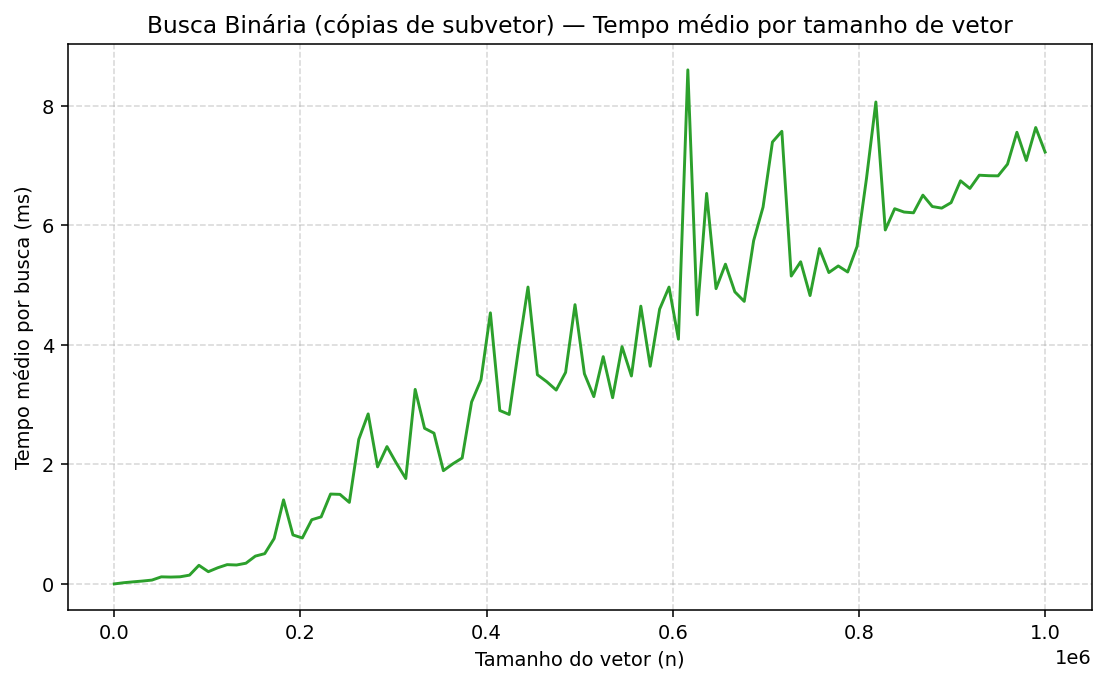
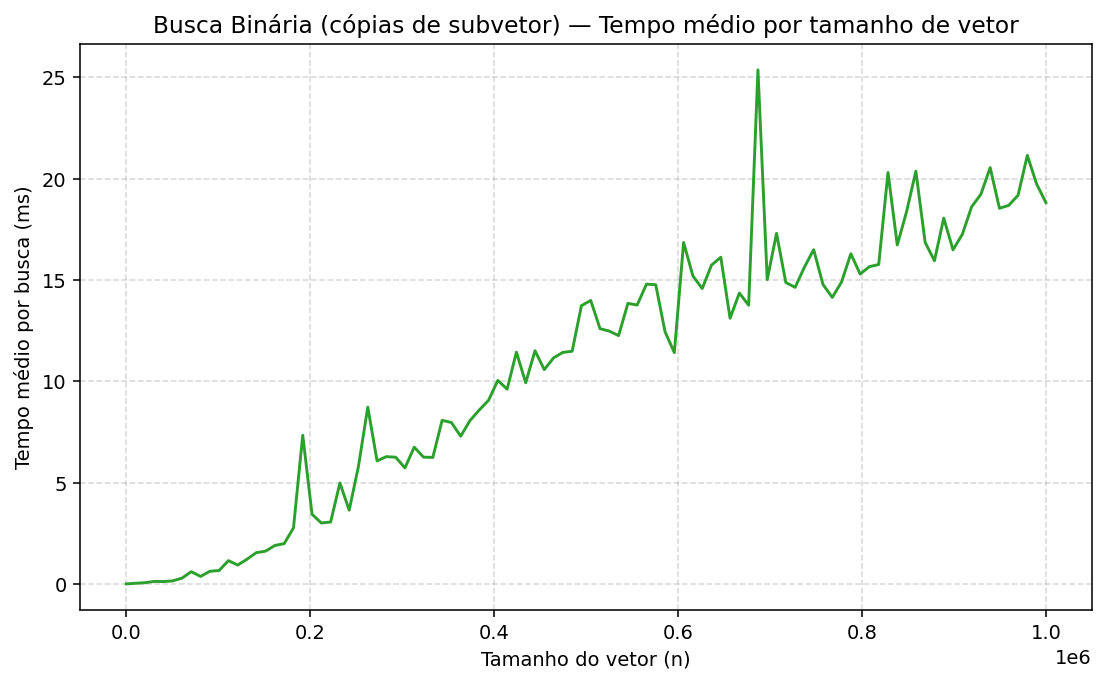
refacto: Adiciona aleatoriedade para o vetor de entrada

diff --git a/benchmark.py b/benchmark.py
@@ -21,7 +21,7 @@ START_N = 100               # tamanho inicial do vetor
 END_N = 1_000_000           # tamanho final do vetor
 TOTAL_SIZES = 100           # quantidade de tamanhos de vetores
 REPEATS_PER_SIZE = 10       # quantas buscas serão realizadas por tamanho
-SEED = 42                   # para reprodutibilidade (aleatorização)
+SEED = 42                  # para reprodutibilidade (aleatorização)
 
 # Do total de tamanhos, quantos quereremos
 EXECUTION_SIZES = TOTAL_SIZES
@@ -39,10 +39,10 @@ def main():
     mismatches = []
 
     for n in sizes:
-        A = list(range(n))  # vetor ordenado 0..n-1 (pré-condição da binária)
+        A = sorted([rng.randint(0, n * 2) for _ in range(n)])  # vetor ordenado aleátorio de 0 ate 2n
+        print(A[:5], " + ", A[-5:], "para -> ", n)
         # Sorteia alvos em um range mais largo para incluir casos de "não encontrado"
-        targets = [rng.randint(-n // 2, (3 * n) // 2) for _ in range(REPEATS_PER_SIZE)]
-
+        targets = [rng.randint(-n // 2, (3 * n)) for _ in range(REPEATS_PER_SIZE)] # -(n/2) até 3n
         # Linear
         t0 = time.perf_counter()
         lin_results = [linear_search(A, x) for x in targets]
@@ -89,8 +89,8 @@ def main():
     # Plotar gráfico
     plt.figure()
     plt.plot(n, linear, label="Linear")
-    plt.plot(n, binary_idx, label="Binária (índices)")
     plt.plot(n, binary_copy, label="Binária (cópias de subvetor)")
+    plt.plot(n, binary_idx, label="Binária (índices)")
     plt.xlabel("Tamanho do vetor (n)")
     plt.ylabel("Tempo médio por busca (ms)")
     plt.title("Comparação de tempo médio por busca vs tamanho do vetor")
